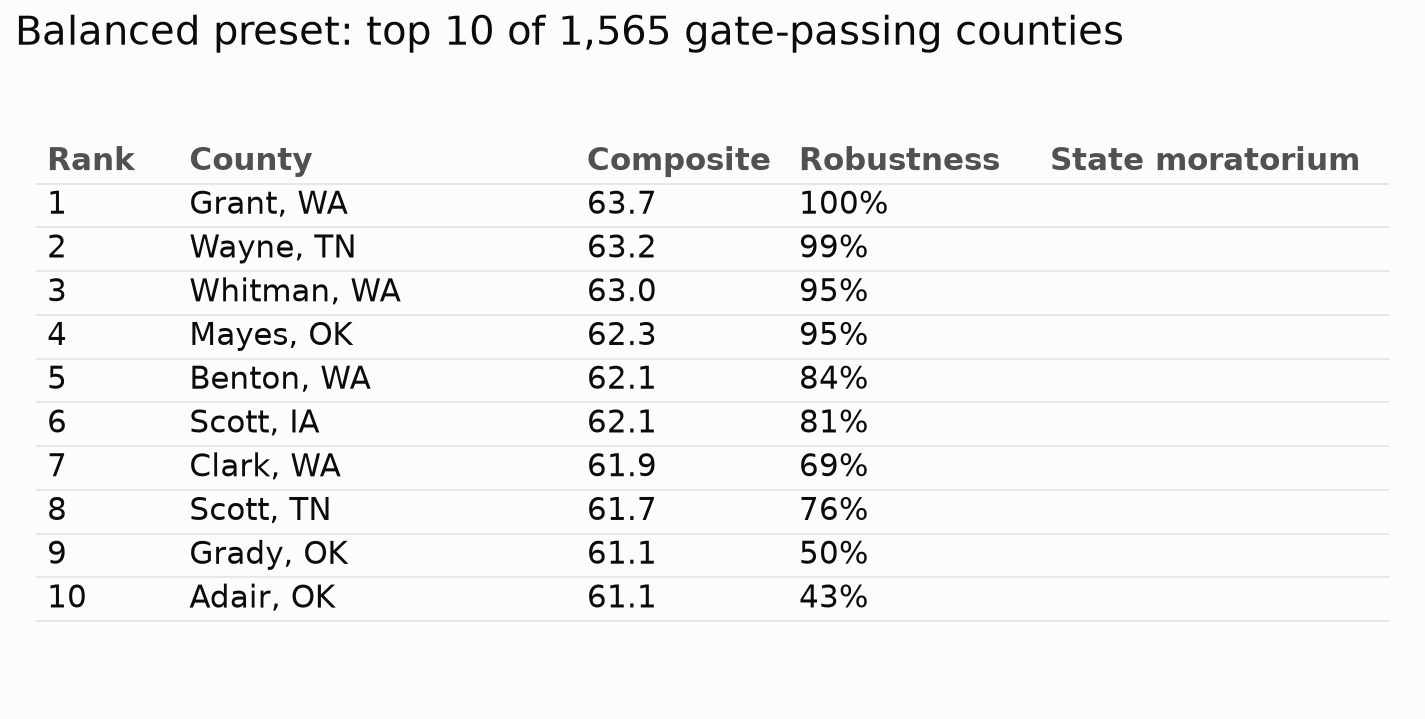
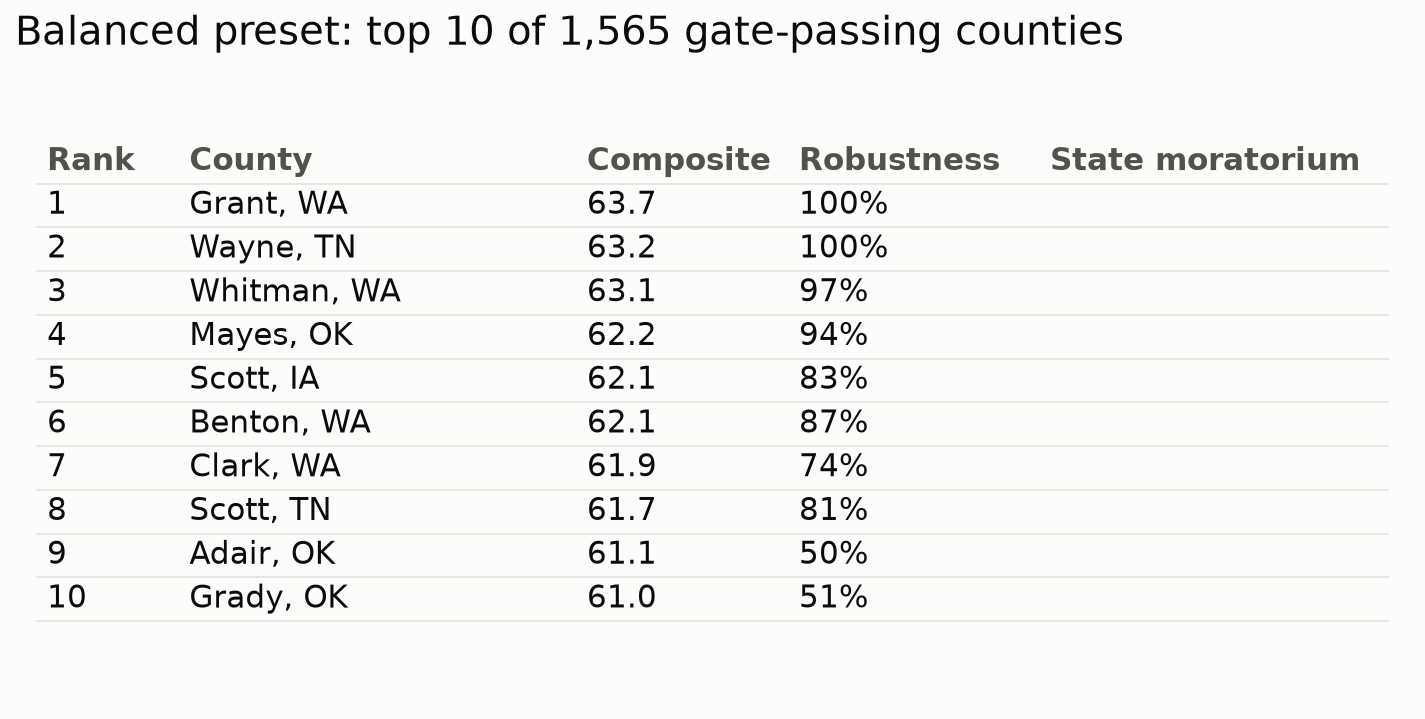
Regenerate deck figures and facts, and update deck and demo numbers
make_figures.py reran on the corrected results. The balanced lead is now 0.5
points, Whitman is 63.1, equal weights share 7 of the top 10, and the
policy-corrected seven-pillar stage, recomputed with today's queue
measures, puts Berkshire fifth and Grant ninth. The demo's floor counts,
top-10 order, Kane IL, and Whitman values were recomputed with the engine.

diff --git a/docs/demo_script.md b/docs/demo_script.md
@@ -25,20 +25,20 @@ you rehearse.
 
 | Time | Click | What the screen shows | What you say |
 | --- | --- | --- | --- |
-| 0:00 | Nothing. | Headline: `balanced · horizon 2026 · 1,565 of 3,109 counties pass the gates · 915 pass the pillar floor · 30 ranked counties are under a state moratorium`. Colored counties passed; grey counties failed a gate. | "You're a site-selection lead placing a 300 MW AI campus. The engine scores all 3,109 counties in the contiguous US on eight pillars: energy and carbon, water, climate resilience, grid, land, community, permitting, and the cost of power." |
-| 0:30 | Hover a grey county in Pennsylvania, then a colored one in Illinois. | Grey: `Centre, PA excluded: min_fiber_share_locations`. Colored: `Kane, IL rank 805 composite 46.89`. | "Hard gates come first: flood and wildfire caps, fiber, interconnection queue age, moratoria, and enough power generation nearby. A grey county failed one, and the engine says which." |
-| 0:50 | Scroll to **Shortlist**. | Top 10: Grant WA, Wayne TN, Whitman WA, Mayes OK, Benton WA, Scott IA, Clark WA, Scott TN, Grady OK, Adair OK. | "Each pillar is a national percentile, and a county weak on any pillar can't outrank one that isn't. Robustness is the share of 2,000 random weight draws in which a county stays in the top 10." |
+| 0:00 | Nothing. | Headline: `balanced · horizon 2026 · 1,565 of 3,109 counties pass the gates · 912 pass the pillar floor · 30 ranked counties are under a state moratorium`. Colored counties passed; grey counties failed a gate. | "You're a site-selection lead placing a 300 MW AI campus. The engine scores all 3,109 counties in the contiguous US on eight pillars: energy and carbon, water, climate resilience, grid, land, community, permitting, and the cost of power." |
+| 0:30 | Hover a grey county in Pennsylvania, then a colored one in Illinois. | Grey: `Centre, PA excluded: min_fiber_share_locations`. Colored: `Kane, IL rank 845 composite 45.82`. | "Hard gates come first: flood and wildfire caps, fiber, interconnection queue age, moratoria, and enough power generation nearby. A grey county failed one, and the engine says which." |
+| 0:50 | Scroll to **Shortlist**. | Top 10: Grant WA, Wayne TN, Whitman WA, Mayes OK, Scott IA, Benton WA, Clark WA, Scott TN, Adair OK, Grady OK. | "Each pillar is a national percentile, and a county weak on any pillar can't outrank one that isn't. Robustness is the share of 2,000 random weight draws in which a county stays in the top 10." |
 | 1:20 | In **Find a county**, type `53025` and pick `Grant, WA (53025)`. | `Rank 1 of 1565 · composite 63.7 · passes the floor · robustness 100% · coverage 78%`. Top reasons: industrial price, state policy risk, land area. The pillar bars include **cost**. | "Grant County, Washington, home of the Quincy data center cluster, ranks first: cheap power, favorable state policy, and room to build. It stays in the top 10 in essentially every weight draw." |
 | 2:00 | In the sidebar, under **Facility and horizon**, set **Cooling** to `evaporative`. | Headline: `balanced_edited (edited) · 826 of 3,109 counties pass the gates · 542 pass the pillar floor · 29 ranked counties are under a state moratorium`. More counties turn grey on the map. | "Now the operator wants evaporative cooling. It uses far less power than chillers, but it consumes water. One condition changes, and it switches on a water stress gate: no county above 2 on the 0 to 5 Aqueduct scale. 739 counties drop out, and so does our first choice." |
 | 2:30 | In **Find a county**, pick `Grant, WA (53025)` again. | Red box: `Excluded by: max_water_stress_if_evaporative`. **Raw change by 2050** shows Water stress (Aqueduct, 0 to 5) at 3.6 today. | "Grant scores 3.6 of 5 for water stress, which is high. The engine won't put an evaporatively cooled campus there, and it tells you exactly why. Switch back to dry cooling and Grant is first again. Cooling technology is a siting decision." |
-| 3:10 | In **Find a county**, type `53075` and pick `Whitman, WA (53075)`. | `Rank 2 of 826 · composite 63.0 · passes the floor · robustness 98% · coverage 76%`. **Raw change by 2050**: water stress 0.0 today and 0.5 in 2050; cooling degree days 362.1 to 838.3. | "Whitman County, also in eastern Washington, scores 0 for water stress today and ranks second, so the same operator can stay in the region with the same cheap power. Its cooling load more than doubles by 2050 under RCP 8.5, which a 30-year facility has to plan for." |
+| 3:10 | In **Find a county**, type `53075` and pick `Whitman, WA (53075)`. | `Rank 2 of 826 · composite 63.1 · passes the floor · robustness 98% · coverage 76%`. **Raw change by 2050**: water stress 0.0 today and 0.5 in 2050; cooling degree days 362.1 to 838.3. | "Whitman County, also in eastern Washington, scores 0 for water stress today and ranks second, so the same operator can stay in the region with the same cheap power. Its cooling load more than doubles by 2050 under RCP 8.5, which a 30-year facility has to plan for." |
 | 3:50 | In the sidebar, open **Conditions YAML**. | The YAML shows `name: balanced_edited` and `cooling: evaporative`. **Download conditions YAML** sits above it. | "Everything you just changed is a plain conditions file. Download it, rerun it from the command line, and you get the same shortlist. The conditions file is the product's interface." |
 | 4:30 | Stop. | | "Conditions in, a ranked and explained shortlist out, repeatable with new data. That's the decision engine." |
 
 ## If you have an extra minute
 
 Set **Cooling** back to `dry`, then set **Facility IT load (MW)** to `1000`.
-The headline drops to 1,023 counties passing the gates and 632 passing the
+The headline drops to 1,023 counties passing the gates and 631 passing the
 floor, because the engine requires plants within 100 km totaling five times
 the facility's load. Grant WA stays first: it has 16,193 MW of plants within
 100 km. Use it as the honest limitation: that column counts installed

diff --git a/docs/deck.md b/docs/deck.md
@@ -27,7 +27,7 @@ sustainable AI campus: first of 1,565 qualifying counties, and in the top 10
 under 99.9% of weight resamples.
 
 - Grant ranks first with a composite of 63.7, ahead of Wayne TN (63.2) and
-  Whitman WA (63.0). Its lead is 0.6 points, so the robustness number
+  Whitman WA (63.1). Its lead is 0.5 points, so the robustness number
   carries the claim, not the rank.
 - **Why it wins:** cheap power, favorable state policy, room to build, and an
   existing data center cluster with 99% fiber coverage.
@@ -58,7 +58,7 @@ strength.
   county below the 10th percentile on any pillar ranks after every county
   that isn't.
 - **The weights are stated judgments, not fitted values.** Grant is also first
-  under equal weights, sharing 8 of the top 10. Across uniformly random
+  under equal weights, sharing 7 of the top 10. Across uniformly random
   weightings it lands in the top 10 50.5% of the time, more than any other
   county.
 
@@ -77,7 +77,7 @@ sources, and the proxies are labeled as proxies.
 - 3,109 counties in the contiguous US by 83 columns. 35 of the 45 mapped
   columns are populated, so coverage is 0.73 to 0.78 across the top 10.
 - Sources by pillar:
-  - **Energy and carbon:** eGRID2023 subregions, the LBNL interconnection queue, the NREL WIND Toolkit, and eGRID plants within 100 km.
+  - **Energy and carbon:** eGRID2023 subregions, the LBNL interconnection queue (clean generation excluding storage, and capacity delivered 2021-2025), the NREL WIND Toolkit, and eGRID plants within 100 km.
   - **Water:** the Drought Monitor, FEMA NRI, WRI Aqueduct 4.0, and CMRA.
   - **Climate:** FEMA NRI loss rates and CMRA projections.
   - **Grid:** the LBNL queue, FCC fiber, FracTracker, and EIA-860.
@@ -106,10 +106,10 @@ means.
 
 - **Seven pillars:** with price as one of seven grid columns (2.6% of the
   composite), Berkshire County, MA ranked first at 18.19 cents/kWh, and Grant
-  seventh. Correcting a closed Massachusetts tax exemption moved Berkshire to
-  second and Grant to sixth.
+  seventh. Correcting a closed Massachusetts tax exemption, recomputed with
+  today's queue measures, moves Berkshire to fifth and Grant to ninth.
 - **Cost as its own pillar:** at 15%, cost moved Grant to first and Berkshire
-  to 1,013th. Berkshire would pay $435M a year for power against Loudoun's
+  to 1,047th. Berkshire would pay $435M a year for power against Loudoun's
   $226M and Grant's $162M.
 - **Then feasibility:** research found that $162M uses a state average price
   a new load won't get. At BPA's new-load rate the same energy costs $196M to
@@ -258,9 +258,10 @@ new 300 MW load gets neither, so the feasibility study has the last word.
   - Retired coal is 0 in 2,884 counties and acts like a yes/no flag. Counties can rise on population decline, a stated value choice.
 - **Judgment and cutoffs:**
   - The weights are judgments. The default robustness test varies each by only about 0.03; under uniformly random weights Grant is in the top 10 50.5% of the time.
-  - First place leads by 0.6 points.
+  - First place leads by 0.5 points.
   - Indiana County PA, with Homer City and 2,230 MW of retired coal, misses the 0.2 fiber gate at 0.1996.
   - Loudoun VA fails our queue age gate.
+  - Delivered queue capacity uses the actual online date where LBNL has one and the proposed date otherwise, which covers every ISO-NE project and 82% in the West. It's evidence the queue delivers, not capacity available to a new load.
 
 **Figure:** none. Text slide.
 
